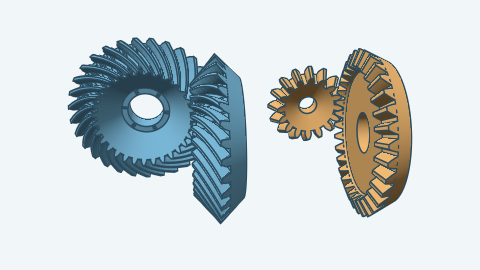
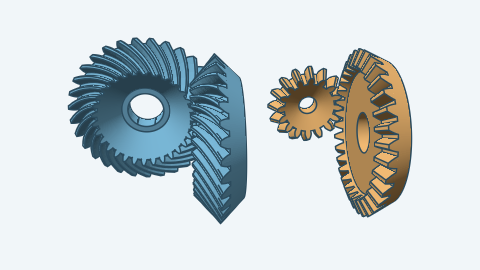
set hero edge tolerance and regenerate index

diff --git a/tools/render/bevelgear.go b/tools/render/bevelgear.go
@@ -63,6 +63,11 @@ func straightCamera(shot string, low, high r3.Vec) solidlens.Camera {
 // bevelHeroGap is the clear distance along X between the two pairs in the hero scene.
 const bevelHeroGap = 30.0
 
+// bevelHeroEdgeTolerance is the Edges.Tolerance of the hero scene in millimetres. It is about half a
+// pixel at the 1600 by 900 hero size. Left at its default, SolidLens would scale it to the image, and
+// the 480 by 270 index image would get 0.40 mm, which breaks the straight teeth's outline into dashes.
+const bevelHeroEdgeTolerance = 0.12
+
 func bevelGearHero(ctx context.Context) (solidlens.Scene, error) {
 	pairs, err := buildBevelPairs(ctx)
 	if err != nil {
@@ -181,6 +186,9 @@ func (p bevelPairs) heroScene() solidlens.Scene {
 	offset := r3.NewVec(spiralMax.X-straightMin.X+bevelHeroGap, spiralMin.Y-straightMin.Y, 0)
 	models := p.spiral.models(spiralColor, bevelSpiralScale, r3.Vec{})
 	models = append(models, p.straight.models(straightColor, 1, offset)...)
+	for i := range models {
+		models[i].Edges.Tolerance = bevelHeroEdgeTolerance
+	}
 	low := r3.NewVec(spiralMin.X, spiralMin.Y, math.Min(spiralMin.Z, straightMin.Z+offset.Z))
 	high := r3.NewVec(straightMax.X+offset.X, math.Max(spiralMax.Y, straightMax.Y+offset.Y),
 		math.Max(spiralMax.Z, straightMax.Z+offset.Z))

diff --git a/tools/render/README.md b/tools/render/README.md
@@ -63,9 +63,10 @@ The `readme` shot builds each model once and writes a 480 × 270 pixel
 writes 1600 × 900 pixel `top.png` and `low.png` views. For bevel gears it
 writes a 1600 × 900 pixel `hero.png` and six 1200 × 1000 pixel views (`top.png`, `low.png`,
 `high.png`, `straight-top.png`, `straight-low.png`, and `straight-high.png`) with outlines
-enabled. The hero camera is shifted sideways until the left and right margins match. Each
-view's camera is shifted and its field of view is set so the gears sit in the middle of the
-image with a 6% margin on every side:
+enabled. The hero camera is shifted sideways until the left and right margins match. The hero
+scene sets the edge tolerance to 0.12 mm for every image size, so the 480 × 270 pixel index
+draws the same outlines as the hero. Each view's camera is shifted and its field of view is set
+so the gears sit in the middle of the image with a 6% margin on every side:
 
 ```sh
 go -C tools/render run . -model spurgear -shot readme -out ../../models/spurgear/images
